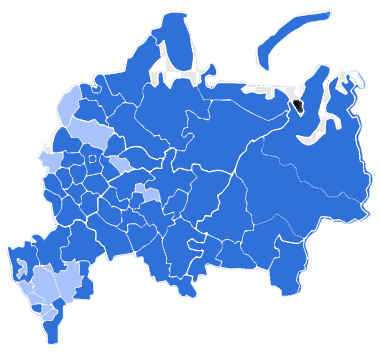
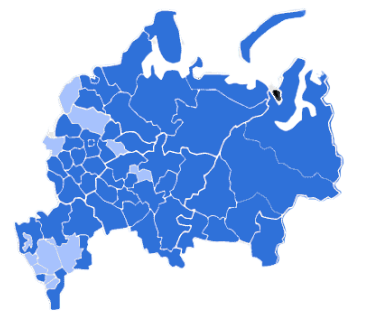
creating russia map

Changed region(s): [[0.0, 0.0289, 0.9842, 1.0], [0.6079, 0.0289, 0.8684, 0.2026], [0.7816, 0.492, 0.8105, 0.5209]]

diff --git a/src/views/HomeView.vue b/src/views/HomeView.vue
@@ -1,7 +1,10 @@
 <template>
   <div class="home_container">
-    <y-france-map class="fm_container"/>
-    <y-italy-map class="im_container"/>
+    <div class="country_container">
+      <y-france-map class="fm_container"/>
+      <y-russia-map class="rm_container"/>
+      <y-italy-map class="im_container"/>
+    </div>
   </div>
 </template>
 
@@ -9,9 +12,10 @@
 import { Options, Vue } from 'vue-class-component';
 import YFranceMap from "@/components/YFranceMap.vue";
 import YItalyMap from "@/components/YItalyMap.vue";
+import YRussiaMap from "@/components/YRussiaMap.vue";
 
 @Options({
-  components: {YItalyMap, YFranceMap},
+  components: {YRussiaMap, YItalyMap, YFranceMap},
 })
 export default class HomeView extends Vue {
 
@@ -26,10 +30,22 @@ export default class HomeView extends Vue {
   margin: 2rem 0 0 0;
   background: url("@/assets/img/map_background_2.png") fixed center no-repeat;
   background-size: 52rem 35rem;
+
+  display: flex;
+  flex-direction: column;
+  justify-content: center;
+  align-items: center;
 }
 
-.fm_container {
-  margin: 3rem 0;
-  padding: 0 25vw 0 0;
+.country_container {
+  max-width: 50vw;
+  display: flex;
+  flex-direction: row;
+  flex-wrap: wrap;
+  justify-content: space-evenly;
+}
+
+.fm_container, .rm_container {
+  margin: 2rem 0;
 }
 </style>

diff --git a/src/components/YRussiaMap.vue b/src/components/YRussiaMap.vue
@@ -1,0 +1,43 @@
+<template>
+  <div class="russia_map">
+    <h2 class="country_header">Россия</h2>
+    <img src="@/assets/img/maps/russia_map_fst.png" alt="" class="rm-f img">
+    <img src="@/assets/img/maps/russia_map_snd.png" alt="" class="rm-s img">
+  </div>
+</template>
+
+<script lang="ts">
+import {Options, Vue} from "vue-class-component";
+
+@Options({
+  name: 'y-russia-map',
+})
+export default class YRussiaMap extends Vue {
+
+}
+</script>
+
+<style scoped lang="less">
+.country_header {
+  margin-bottom: .75rem;
+  margin-left: 1rem;
+}
+
+.rm-f {
+  height: 10rem;
+  scale: 100%;
+  transition-duration: .3s;
+}
+
+.rm-s {
+  height: 12rem;
+  margin-left: -3.6rem;
+  margin-bottom: .15rem;
+}
+
+.rm-f:hover, .rm-s:hover {
+  scale: 120%;
+  transition-duration: .3s;
+  z-index: 100;
+}
+</style>
